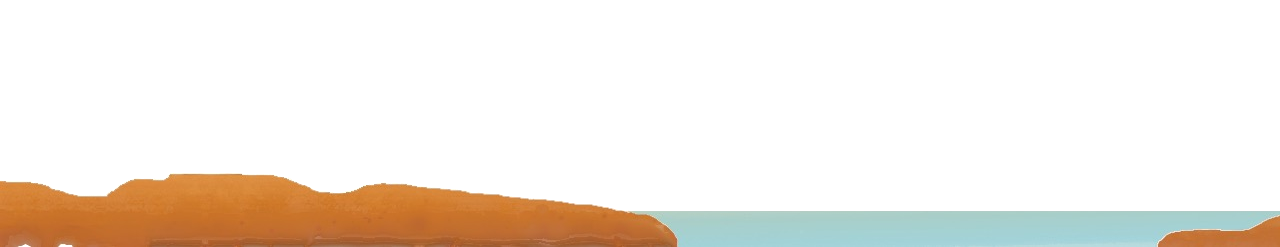
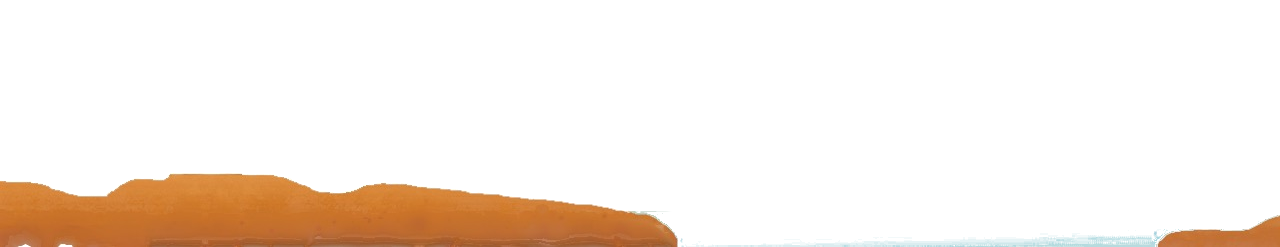
Replaced Ralph Wiggun with a hydrocarbon lake that you can't land your craft on.

Changed region(s): [[0.5, 0.8502, 1.0, 1.0]]

diff --git a/main/level4.py b/main/level4.py
@@ -134,10 +134,10 @@ def play(screen, clock, difficulty, audio_state, resource_location, resolution):
         def __init__(self):
             super(collision_object, self).__init__()
 
-            self.image = pygame.image.load(resource_location+"danger.png").convert_alpha()
+            self.image = pygame.image.load(resource_location+"titan_lake.png").convert_alpha()
             self.rect = self.image.get_rect()
             self.mask = pygame.mask.from_surface(self.image)
-            self.rect.topleft = (400, 200)
+            self.rect.bottomright = (1280, 720)
 
     sprite_list = pygame.sprite.Group()
     #creates a list of sprites
@@ -145,10 +145,10 @@ def play(screen, clock, difficulty, audio_state, resource_location, resolution):
     #make a planet called planet
     player = Craft()
     #make a craft called player
-    danger_zone = collision_object()
-    #make a collision object called danger zone
+    titan_lake = collision_object()
+    #make a collision object called titan lake
     sprite_list.add(player)
-    sprite_list.add(danger_zone)
+    sprite_list.add(titan_lake)
     #add the player to a list of sprites
 
     font_small = pygame.font.SysFont('Courier New', functions.resource("small_font", resolution), True, False)
@@ -301,7 +301,7 @@ def play(screen, clock, difficulty, audio_state, resource_location, resolution):
                 player, safe_landing_check, playing = functions.surface_collision(screen, resolution, player, difficulty)
                 #call the safe landing check function described above, and remember whether the landing was safe or not
 
-            if pygame.sprite.collide_mask(player, danger_zone) != None:
+            if pygame.sprite.collide_mask(player, titan_lake) != None:
                 player.burn_sound.stop()
                 player, safe_landing_check, playing = functions.object_collision(screen, resolution, player, 0)
 
